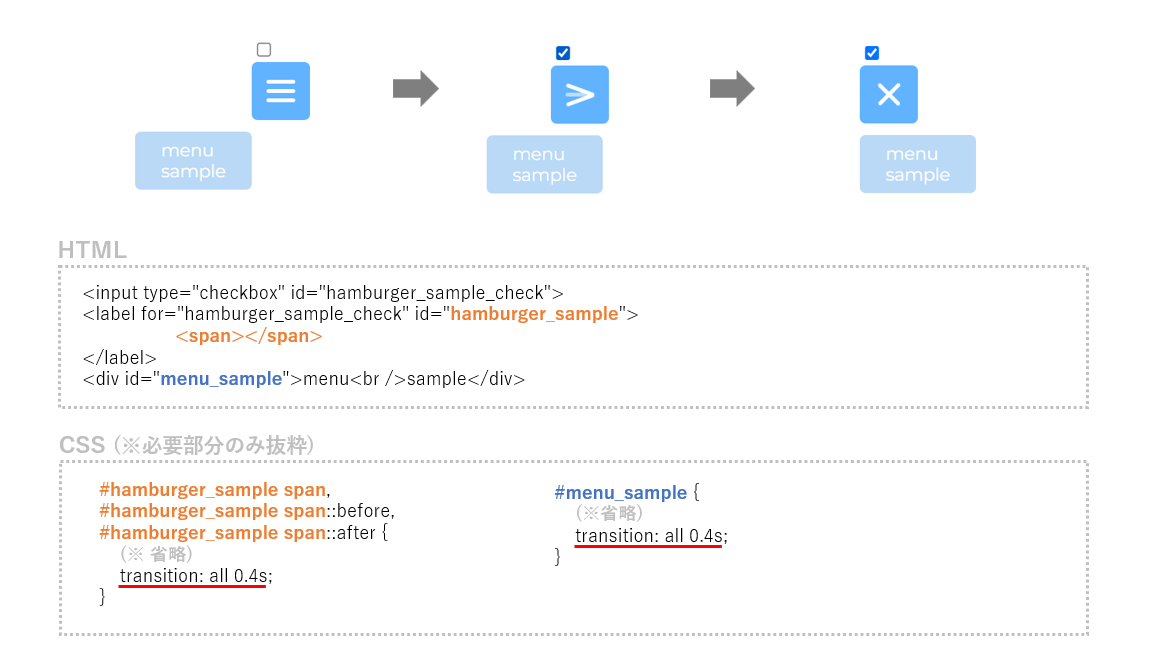
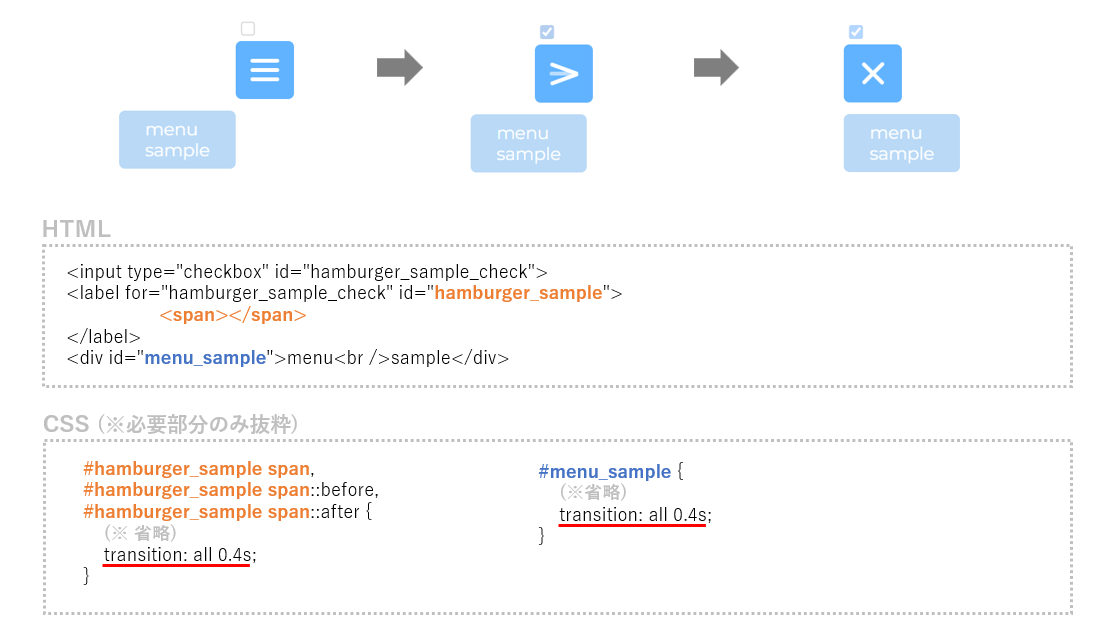
文章内の色指定ミスのほか、画像が作成途中のものになっていたため差し替え

diff --git a/content_hamburger.html b/content_hamburger.html
@@ -146,7 +146,7 @@ border-radius: 5px;
             <b>① まず、チェックボックスとそれに連動するボタンを用意します。</b><br/>
             <img src="img/content_hamburger_1.png" class="img_adjust"><br/><br/>
             チェックボックスを用意した後、そのチェックボックスに対応するラベルを作成します。<br/>
-            ラベルの見た目はCSSで調整しています。高さと幅は50px、背景は#61b3ff(<span class="skyblue">■</span>)…と設定し、疑似的なボタンにしています。<br/><br/><br/>
+            ラベルの見た目はCSSで調整しています。高さと幅は50px、背景は#61b3ff(<span class="sample_color">■</span>)…と設定し、疑似的なボタンにしています。<br/><br/><br/>
 
             <b>② 次に、チェックボックス部分を非表示にし、ラベル(疑似ボタン)に白い3本線を作成します。</b><br/><br/>
             <img src="img/content_hamburger_2.png" class="img_adjust"><br/><br/>

diff --git a/css/sample_hamburger.css b/css/sample_hamburger.css
@@ -75,3 +75,7 @@
 .img_adjust{
     width: 100%;
 }
+
+.sample_color {
+    color: #61b3ff
+}
